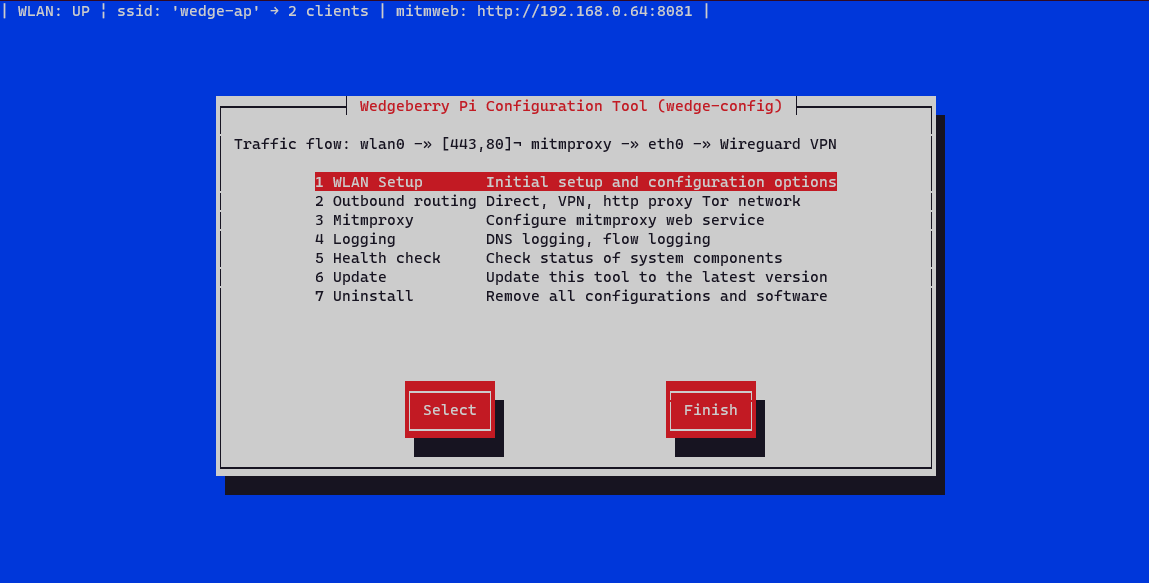
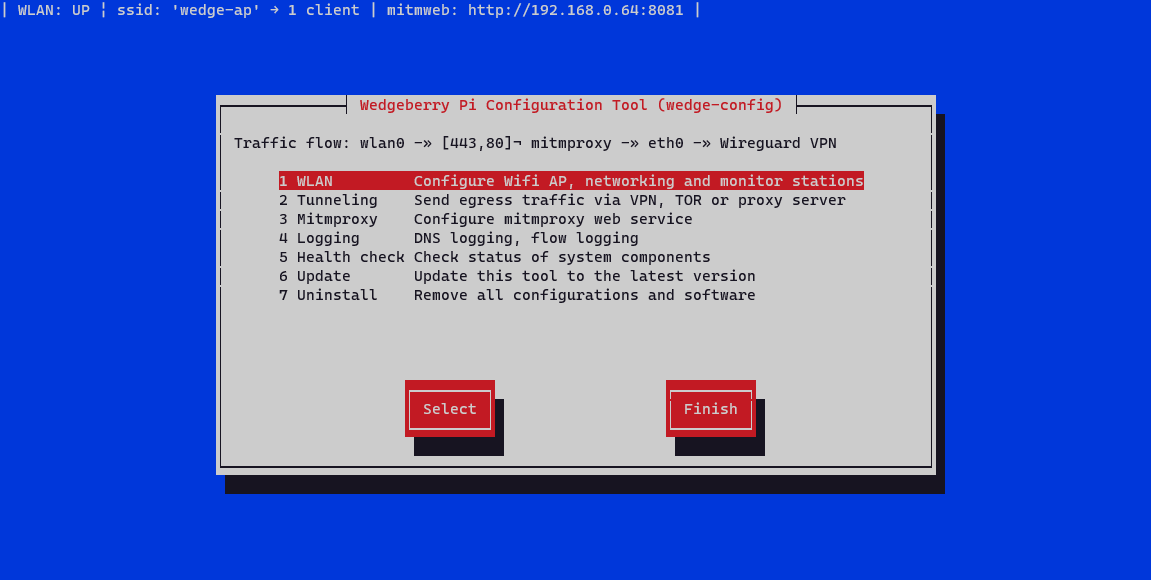
fixes

Changed region(s): [[0.1828, 0.1552, 0.8225, 0.869], [0.0, 0.0, 0.6397, 0.031]]

diff --git a/README.md b/README.md
@@ -6,13 +6,18 @@ Wedgeberry software differs from other similar software in that it supports flex
 
 Currently the following is supported and can be setup via the interative menu: 
 
-* WLAN AP parameters (SSID, BSSID, channel etc) 
-* Mitmproxy as an inline transparent proxy for traffic inspection
+* WLAN AP parameters (SSID, BSSID, channel, password, public etc.) 
+* Mitmproxy as an inline transparent proxy on the Pi 
+* Mitmweb as a system service
 * Routing WLAN traffic traffic via:
-    * Direct
+    * Direct wired / wlan interface
     * Wireguard VPN tunnel
     * TOR network (TCP+DNS) 
     * HTTP/S proxy (BurpSuite configured in transparent mode)
+* Log/monitoring support: 
+    * connected clients (wifi stations, dhcp clients) 
+    * DNS logs
+    * Raw traffic capture
 
 `wedge-config.sh` will handle all the required package installs, `iptables` rules, `ip route` rules and `systemd` services for persistance (including mitmproxy).
 
@@ -30,8 +35,7 @@ wget https://raw.githubusercontent.com/haxrob/wedgeberry/main/build/wedge-conf.s
 sudo ./wedge-config.sh
 ```
 
-__Note__: `wedge-config.sh` is build by merging multiple bash scripts. Do not edit it directly. 
-
+__Note__: `wedge-config.sh` is build by merging multiple bash scripts. It is not recommended to edit it directly. 
 To build `wedge-config.sh` from this repository, run:
 ```
 make
@@ -44,6 +48,7 @@ Run with `-d` flag to write bash verbose output to logfile `wedge-debug.log` wit
 - `mitmproxy` is installed to `/opt/mitmproxy` with `mitmweb` running as a service as `mitmproxy` user via (`/etc/systemd/system/mitmweb.servce`)
 - DNS requests from `dnsmasq` are logged to `/root/wedge-dns.log`
 - Internal configuration file is written to `/root/.config/wedge.conf`
+- Selecting 'Update' from the menu will fetch the latest version
 
 # Compatibility
 
@@ -53,7 +58,7 @@ It is recommended to use [latest Raspberry Pi images](https://www.raspberrypi.co
 
 # Packages
 
-The following packages are installed and/or managed by wedgeberry:
+The following packages are installed and configured:
 - dnsmasq 
 - hostapd
 - dhcpcd
